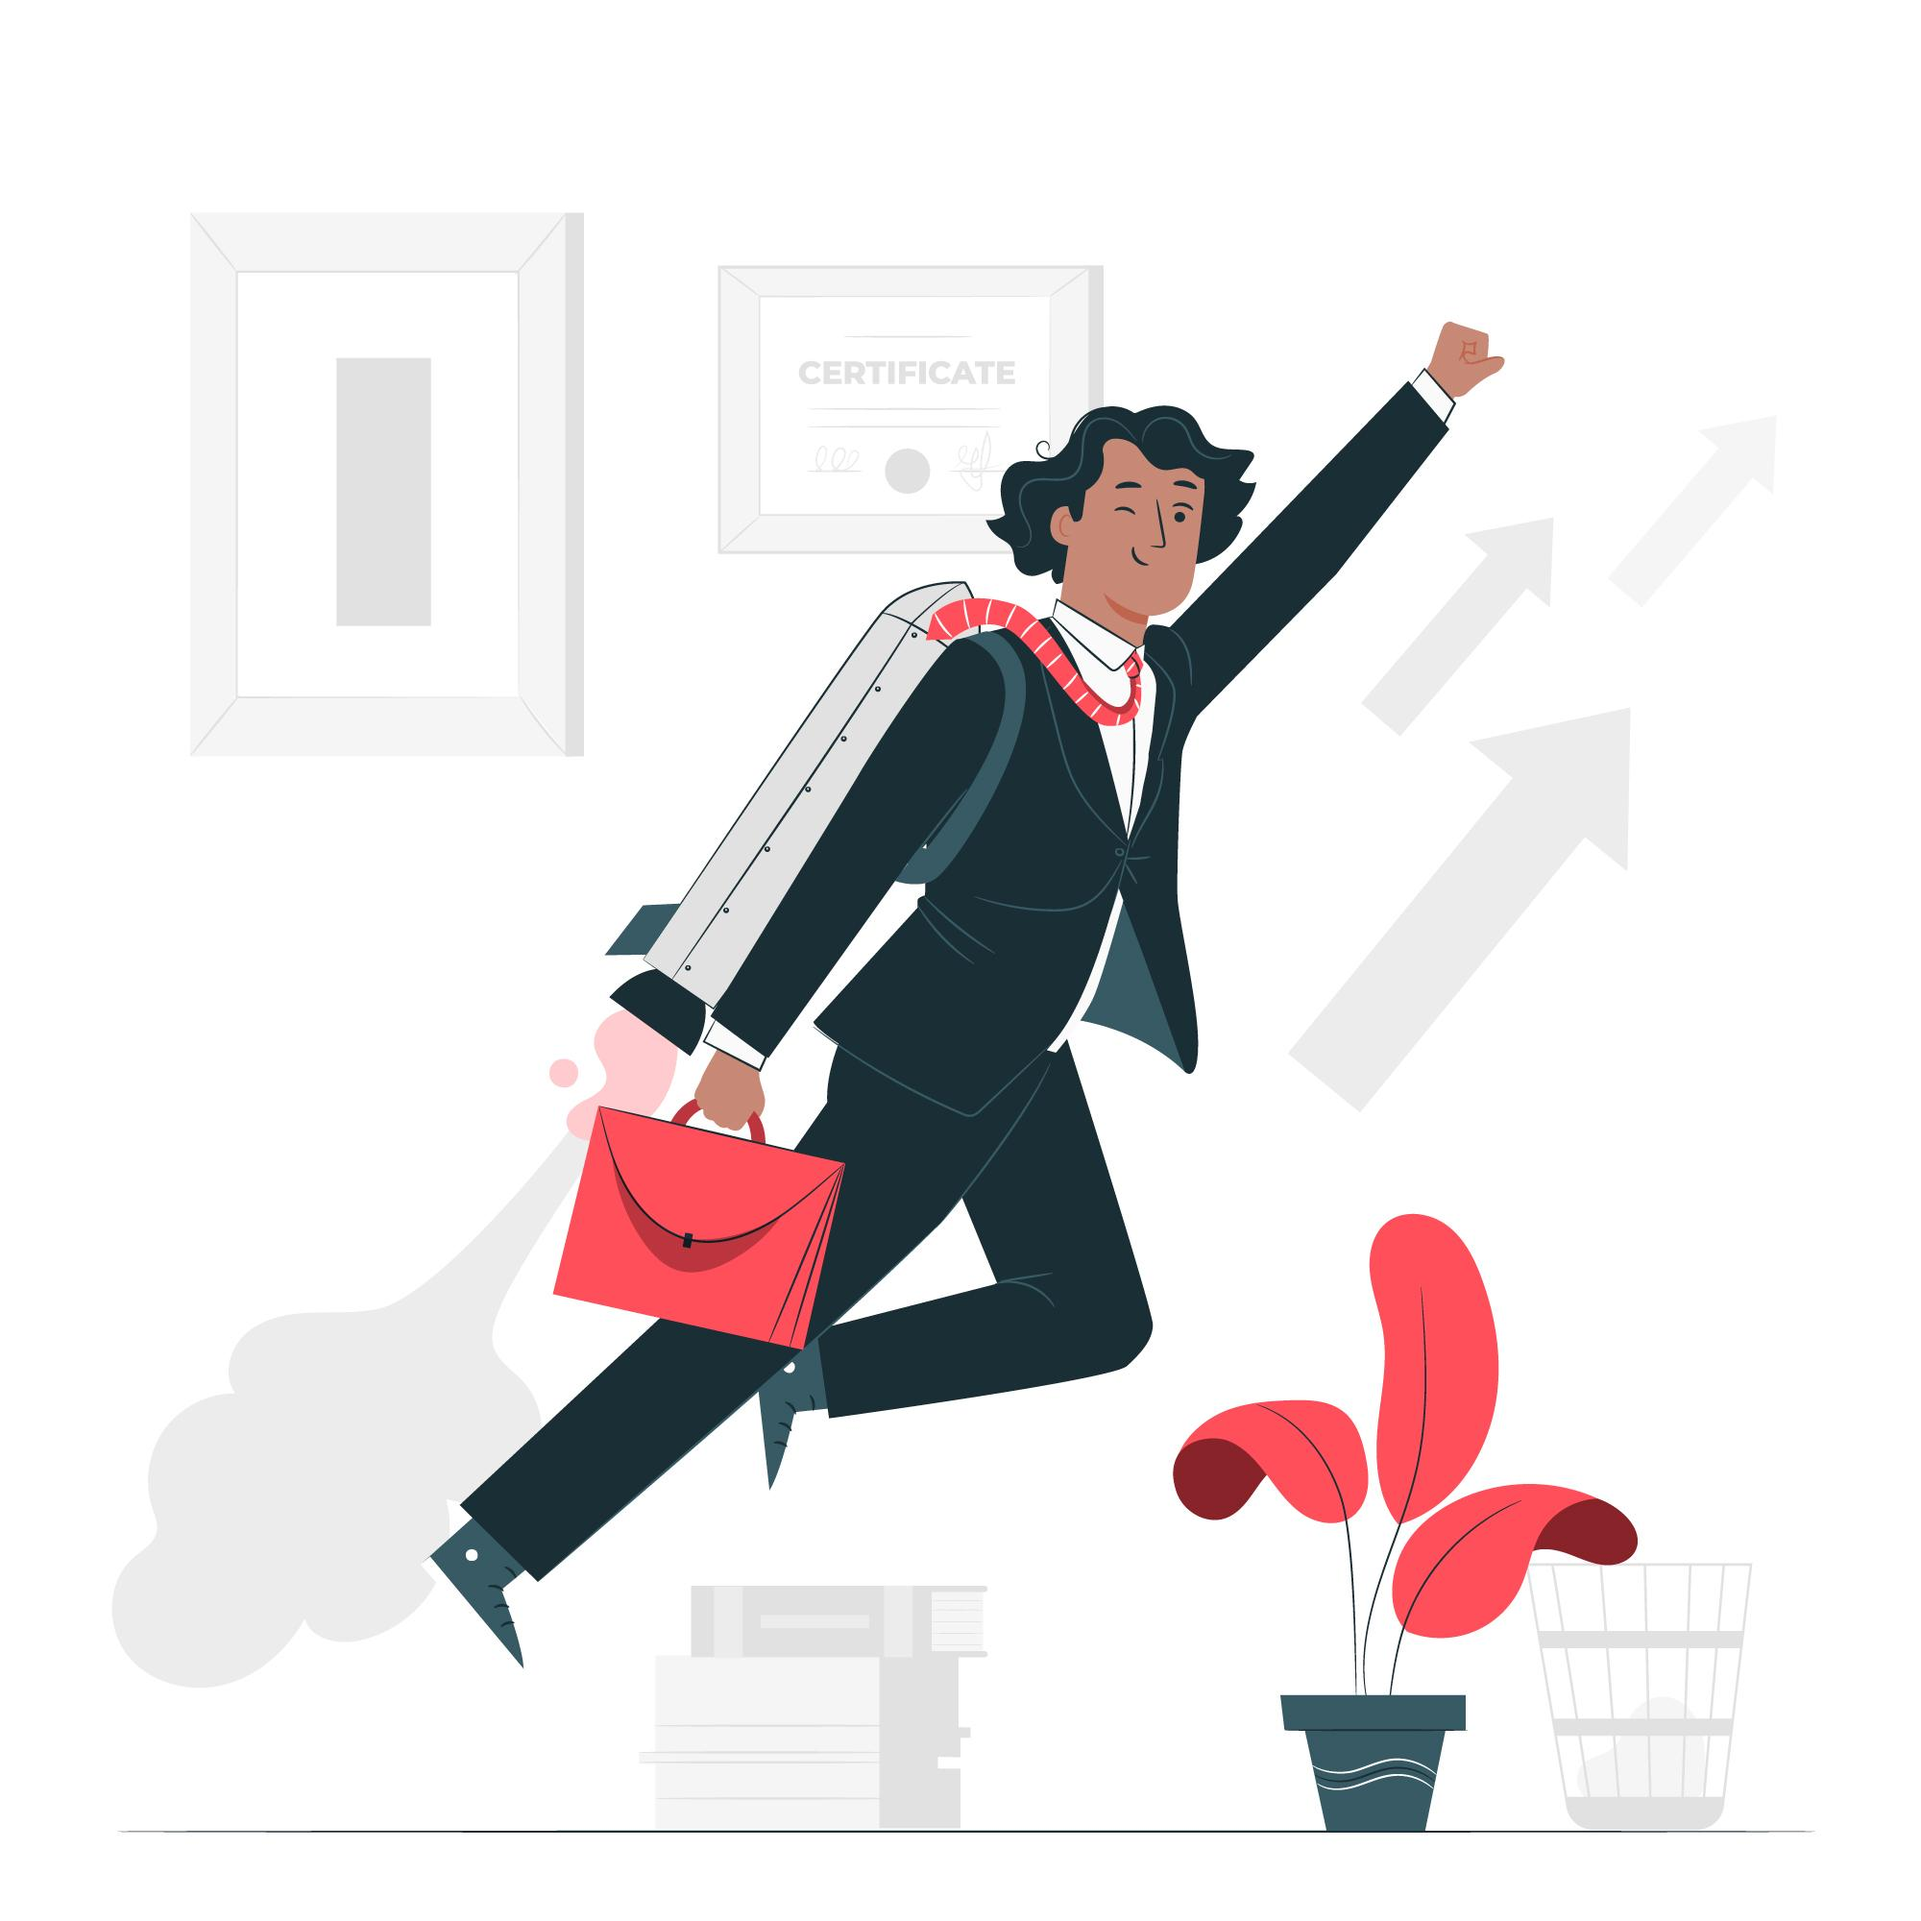
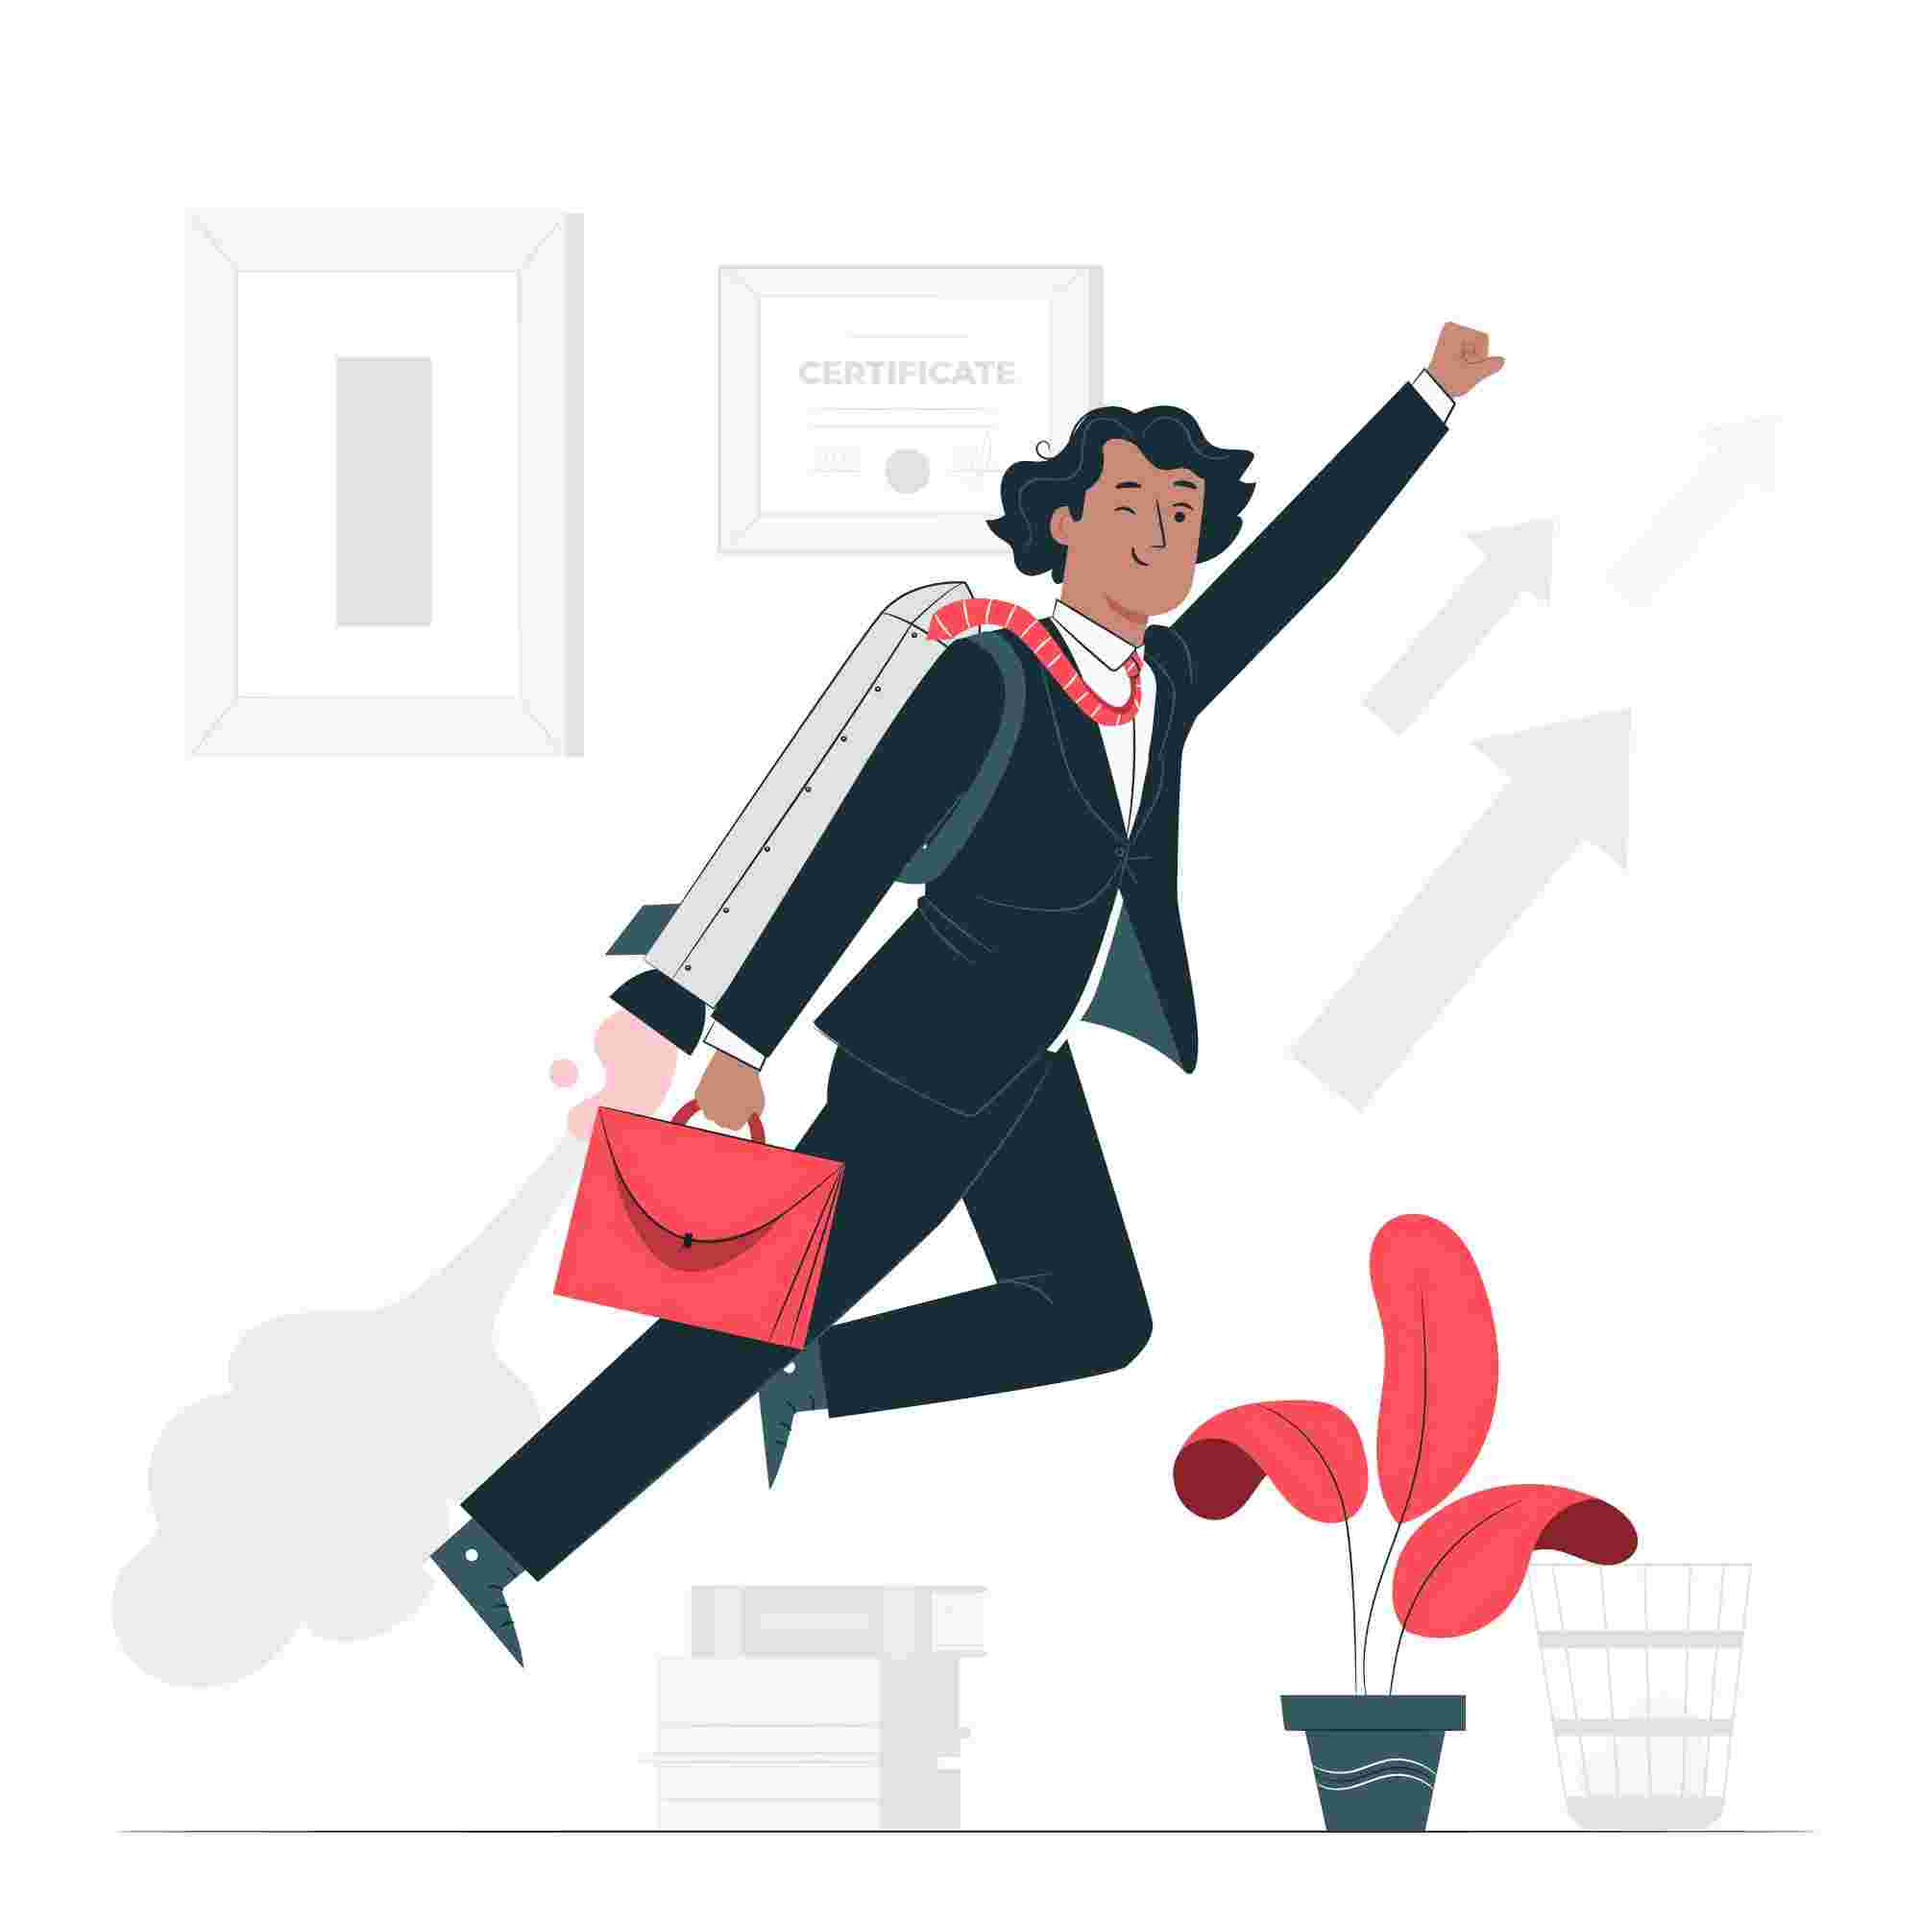
Optimized images & fix meta typo

diff --git a/index.html b/index.html
@@ -7,7 +7,7 @@
     <meta http-equiv="Content-Type" content="text/html; charset=UTF-8" />
     <title>Siva - Web Dev Portfolio</title>
     <!-- HTML meta -->
-    <meta property="description" content="This is my portfolio site which showcase my projects" />
+    <meta name="description" content="This is my portfolio site which showcase my projects" />
     <meta name="robots" content="index, follow" />
     <!-- Open Graph Meta -->
     <meta property="og:title" content="Siva - Web Dev Portfolio" />
@@ -23,6 +23,7 @@
     <link rel="preconnect" href="https://fonts.googleapis.com/" />
     <link rel="preconnect" href="https://fonts.gstatic.com/" crossorigin="" />
     <link rel="preconnect" href="https://cdnjs.cloudflare.com/" />
+    <link rel="preload" as="image" href="./images/hero-cover.jpg">
     <!-- stylesheets -->
     <link rel="stylesheet" href="https://fonts.googleapis.com/css2?family=Poppins:wght@400;500;600;700;800;900&display=swap" />
     <link rel="stylesheet" href="https://cdnjs.cloudflare.com/ajax/libs/font-awesome/5.15.4/css/all.min.css" />
@@ -40,7 +41,7 @@
                 <li><a href="#projects">Projects</a></li>
                 <li><a href="./resume/index.html">Resume</a></li>
             </ul>
-            <a id="main-menu-trigger" href="javascript:;"><i class="fas fa-bars"></i></a>
+            <a id="main-menu-trigger" href="javascript:;" aria-label="main menu"><i class="fas fa-bars"></i></a>
         </nav>
     </header>
     <main>
@@ -117,7 +118,7 @@
             <div class="cards-wrap">
                 <div class="card-item">
                    <div class="card-top">
-                       <img src="./images/currency-converter.png" alt="Currency Converter App" style="transform:scale(1.5)" class="card-img">
+                       <img src="./images/currency-converter.png" alt="Currency Converter App" class="card-img">
                        <span class="card-tag-primary">Javascript</span>
                     </div>
                     <div class="card-bottom">
@@ -133,7 +134,7 @@
                 </div>
                 <div class="card-item">
                    <div class="card-top">
-                       <img src="./images/random-string-generator.png" alt="Random String Generator" style="transform:scale(1.5)" class="card-img">
+                       <img src="./images/random-string-generator.png" alt="Random String Generator" class="card-img">
                        <span class="card-tag-primary">Javascript</span>
                     </div>
                     <div class="card-bottom">
@@ -150,8 +151,8 @@
                 </div>
                 <div class="card-item">
                    <div class="card-top">
-                       <img src="./images/todos-hub.png" alt="Project name" class="card-img">
-                       <span class="card-tag-primary">MERN</span>
+                       <img src="./images/todos-hub.png" alt="TodosHub" class="card-img">
+                       <span class="card-tag-primary">MERN Stack</span>
                     </div>
                     <div class="card-bottom">
                         <div class="card-tags">
@@ -192,7 +193,7 @@
     <footer id="footer">
         <div class="footer-div">
             <div class="left-div">
-                <h4>Contact Me</h4>
+                <h3>Contact Me</h3>
                 <ul>
                     <li>
                         <i class="fas fa-arrow-right"></i>
@@ -201,7 +202,7 @@
                 </ul>
             </div>
             <div class="right-div">
-                <h4>Profiles</h4>
+                <h3>Profiles</h3>
                 <ul>
                     <li>
                         <i class="fas fa-arrow-right"></i>
@@ -213,13 +214,13 @@
         <div class="footer-credit">Created with 💖 by Siva</div>
     </footer>
     <div class="utils">
-        <a href="#" id="backToTopBtn"><i class="fas fa-arrow-up"></i></a>
+        <a href="#" id="backToTopBtn" aria-label="back to top"><i class="fas fa-arrow-up"></i></a>
         <div class="scroll-indicator"></div>
         <div id="floatingProfilesBar" class="floating-profiles-bar">
             <div class="bar-title">Profiles</div>
             <div class="connector"></div>
             <div class="bar-contents">
-                <a href="https://www.github.com/devsiva003/" target="_blank" title="Github profile"><i class="fab fa-github"></i></a>
+                <a href="https://www.github.com/devsiva003/" target="_blank" title="Github profile" aria-label="Github profile"><i class="fab fa-github"></i></a>
                 <!-- <a href="#" title="Mail address"><i class="fab fa-google"></i></a> -->
             </div>
         </div>

diff --git a/main.css b/main.css
@@ -1,11 +1,4 @@
 
-/*
-* Prefixed by Autoprefixer
-* PostCSS: v8.4.14,
-* Autoprefixer: v10.4.7
-* Browsers: last 4 version
-*/
-
 * {
     -webkit-box-sizing: border-box;
             box-sizing: border-box;
@@ -126,7 +119,7 @@ body {
     padding-top: 2rem;
     min-height: 450px;
     position: relative;
-    background: rgba(0, 0, 0, .15) url(./images/hero-bg.jpg) no-repeat;
+    background: rgba(0, 0, 0, .15) url(./images/hero-cover.jpg) no-repeat;
     background-size: cover;
     background-attachment: fixed;
     background-position: center;
@@ -656,14 +649,14 @@ body {
             transform: translateX(5px);
 }
 
-.footer-div h4 {
+.footer-div h3 {
     margin-bottom: 1rem;
     background-color: #09f;
     -webkit-box-shadow: -4px 3px #fff;
             box-shadow: -4px 3px #fff;
 }
 
-.footer-div .right-div h4 {
+.footer-div .right-div h3 {
     -webkit-box-shadow: 4px 3px;
             box-shadow: 4px 3px;
 }
